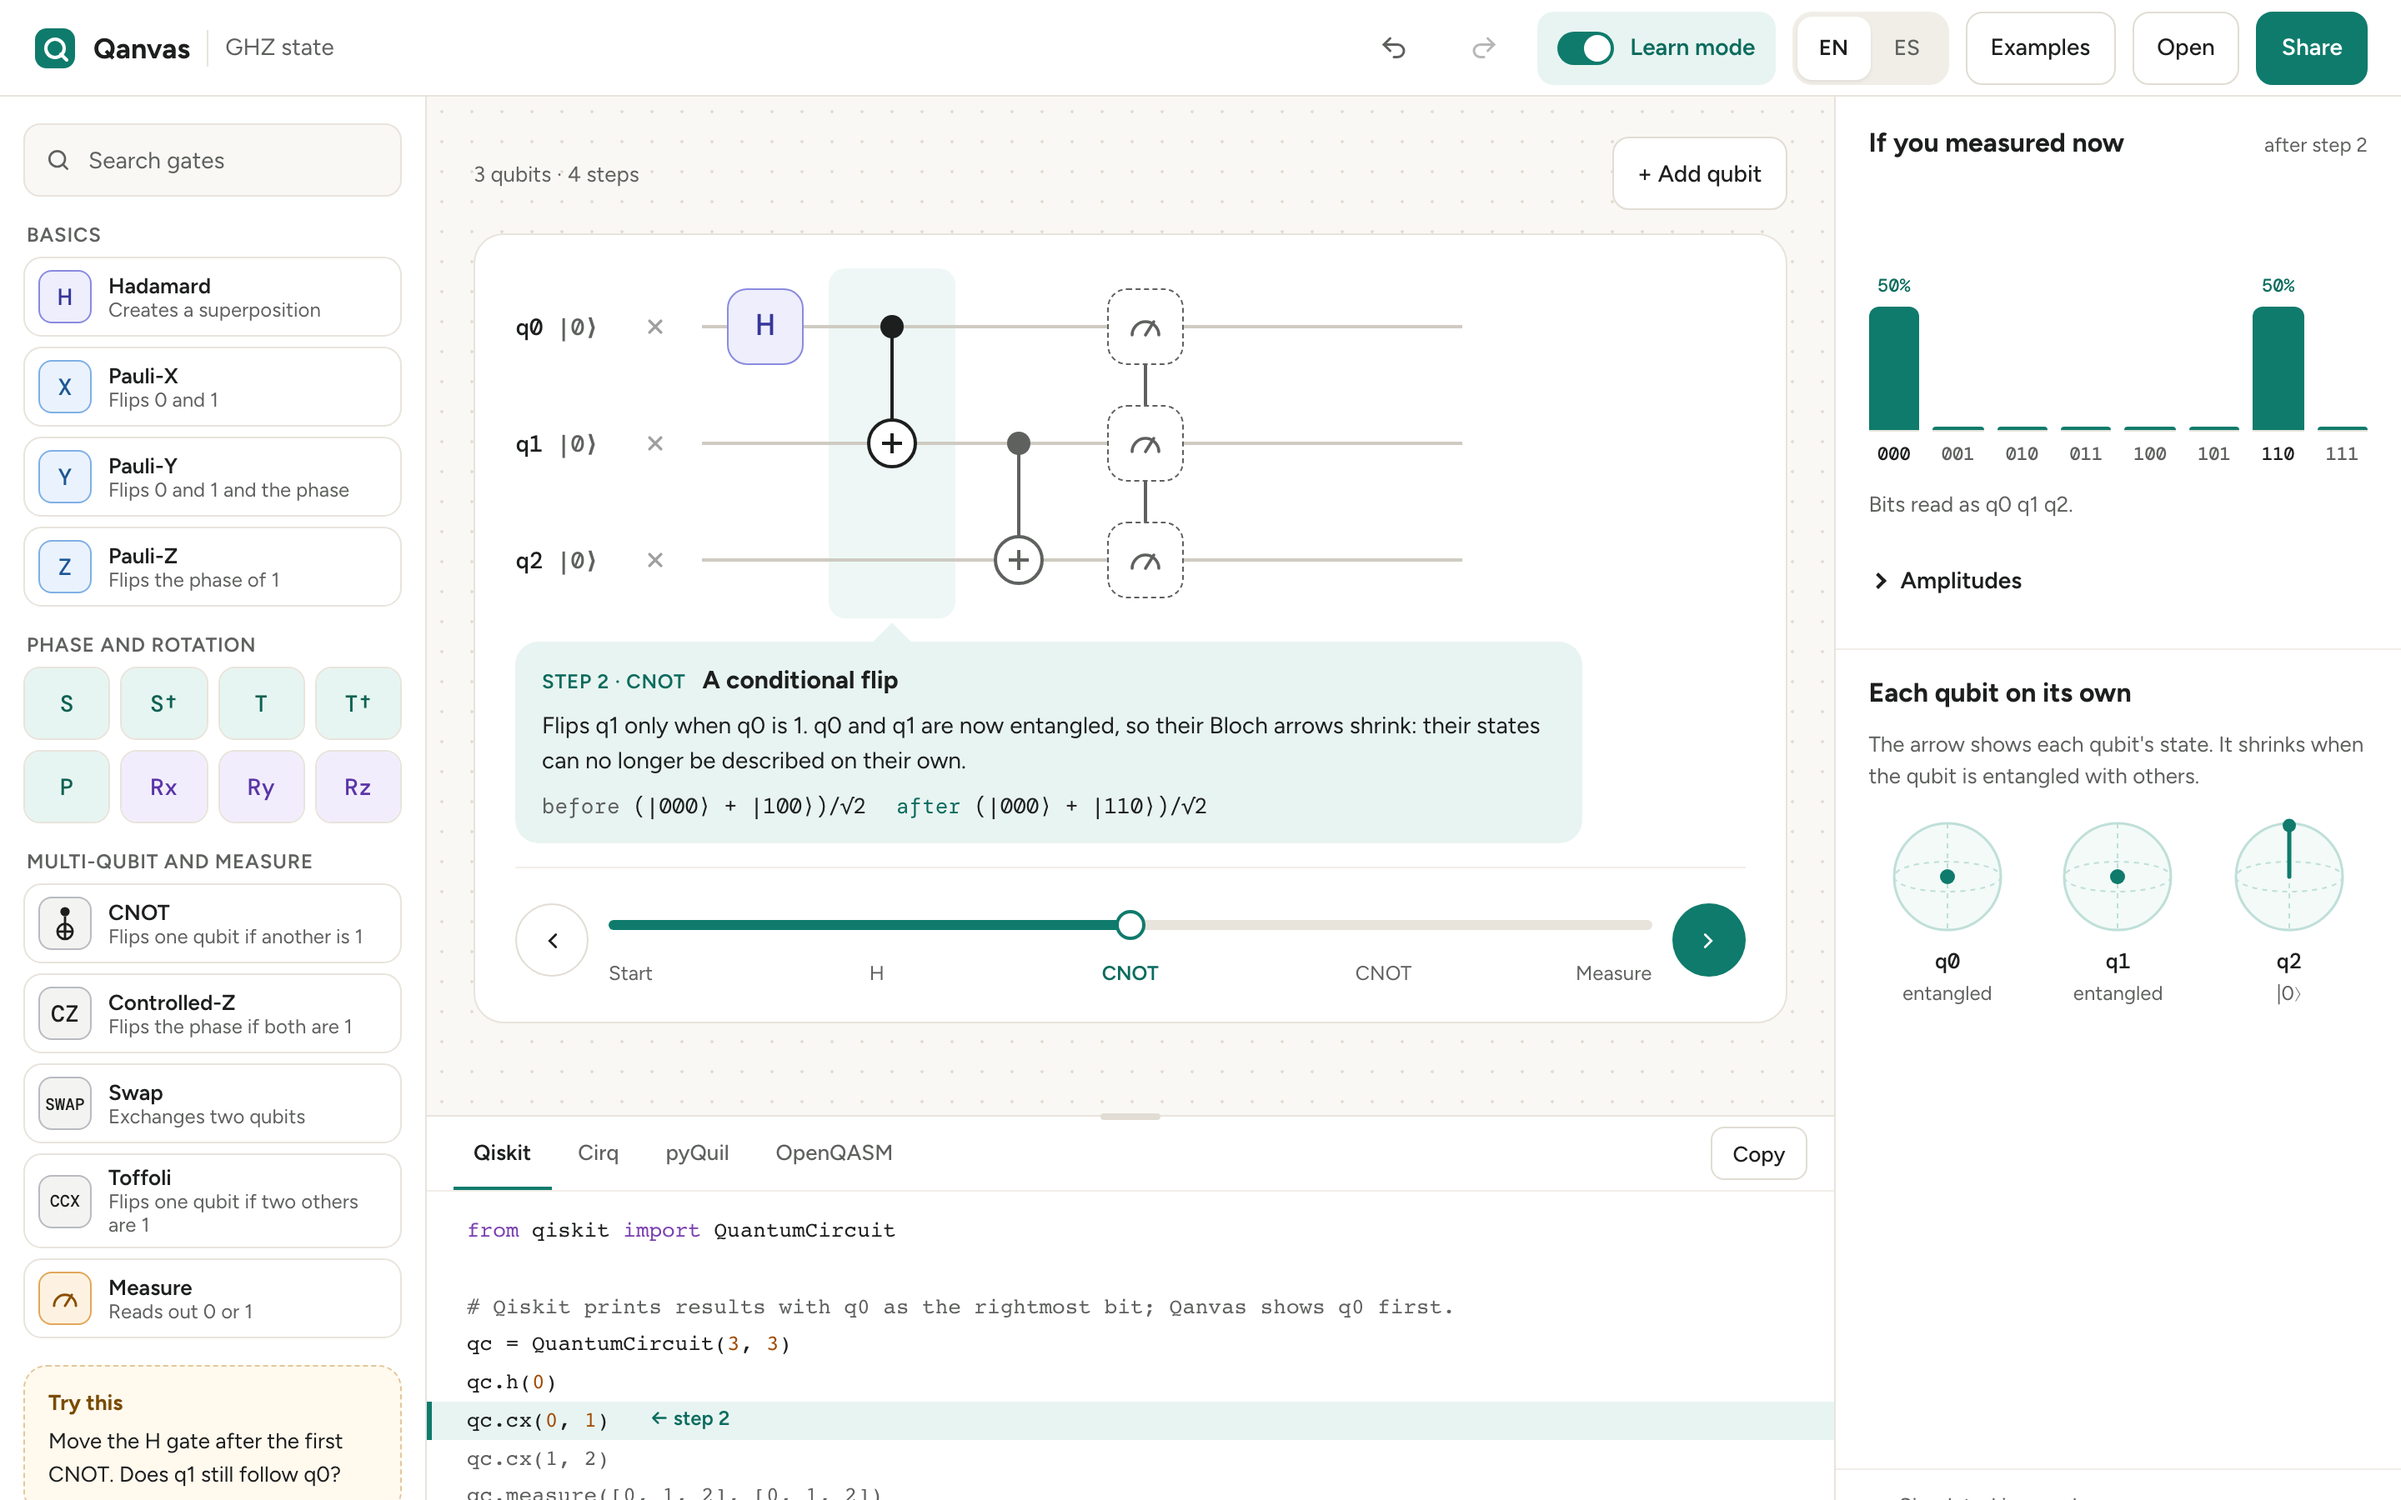
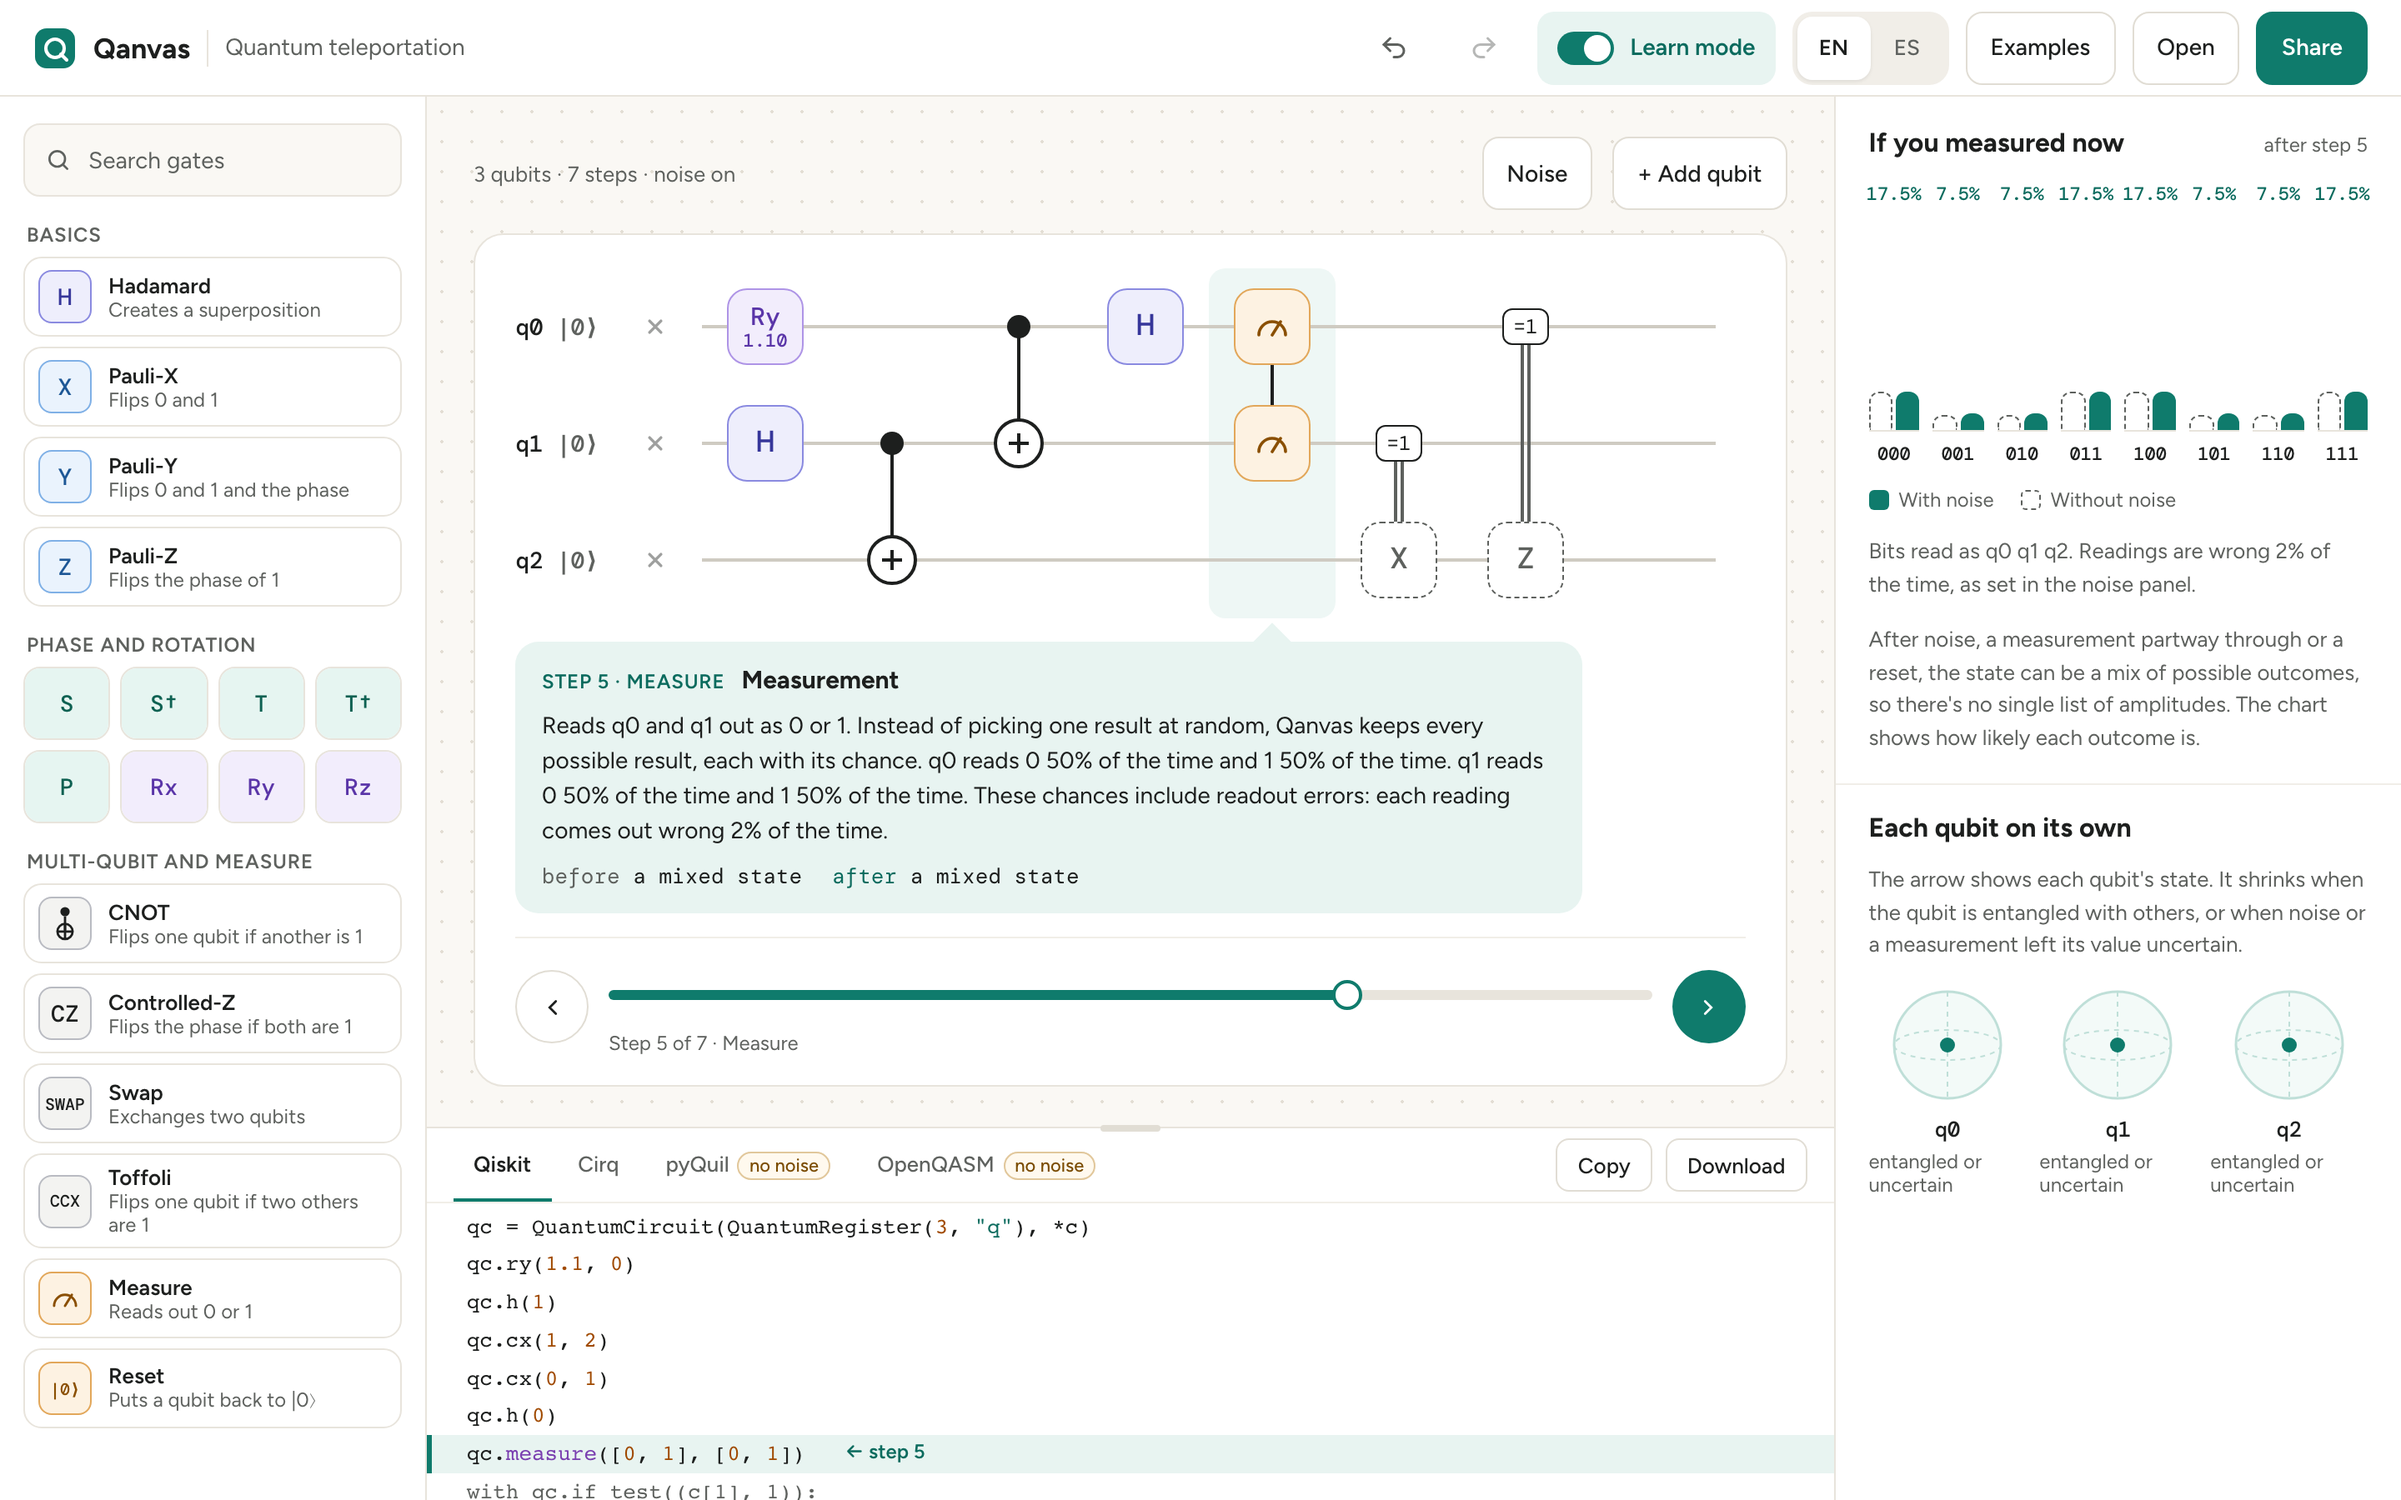
Show 0.3's teleportation with noise in the README screenshots

diff --git a/README.es.md b/README.es.md
@@ -8,7 +8,7 @@
 
 [Read in English](README.md)
 
-![Qanvas mostrando un estado GHZ en el paso 2: la columna de la CNOT está resaltada, una explicación dice que q0 y q1 ahora están entrelazados, el histograma muestra 000 y 110 con 50 % cada uno, y la línea de Qiskit correspondiente está resaltada en el panel de código.](docs/images/qanvas-es.png)
+![Qanvas mostrando la teletransportación cuántica en el paso 5 con ruido: q0 y q1 se miden a mitad del circuito, y la X y la Z en q2 se aplican solo si una medición dio 1, con líneas dobles. La explicación da la probabilidad de que cada qubit dé 0 o 1, con los errores de lectura incluidos; el histograma muestra cada resultado con ruido junto a una barra punteada sin ruido; y las pestañas de pyQuil y OpenQASM indican que dejan fuera el ruido.](docs/images/qanvas-es.png)
 
 Las herramientas visuales que los estudiantes conocen primero suelen verse anticuadas, y las más pulidas piden una cuenta y conexión. Qanvas está pensado primero para estudiantes y después para investigadores: sin cuenta, sin instalar nada, funciona sin internet, en español y en inglés. Es el constructor de circuitos de [quantum-lab](https://github.com/Ethan-Rivas/quantum-lab), y también funciona por su cuenta.
 

diff --git a/README.md b/README.md
@@ -8,7 +8,7 @@
 
 [Leer en español](README.es.md)
 
-![Qanvas showing a GHZ state at step 2: the CNOT column is highlighted, an explanation says q0 and q1 are now entangled, the histogram shows 000 and 110 at 50% each, and the matching Qiskit line is highlighted in the code panel.](docs/images/qanvas-en.png)
+![Qanvas showing quantum teleportation at step 5 with noise on: q0 and q1 are measured partway through, and the X and Z on q2 run only if a measurement gave 1, drawn with double lines. The explanation gives each qubit's chances of reading 0 and 1, readout errors included; the histogram shows each outcome with noise beside a dashed bar without noise; and the pyQuil and OpenQASM tabs are marked as leaving out the noise.](docs/images/qanvas-en.png)
 
 The visual tools students meet first tend to look and feel dated, and the polished ones need an account and a connection. Qanvas is built for students first and researchers second: no account, no install, works offline, in English and Spanish. It's the circuit builder of [quantum-lab](https://github.com/Ethan-Rivas/quantum-lab), and it also runs on its own.
 
